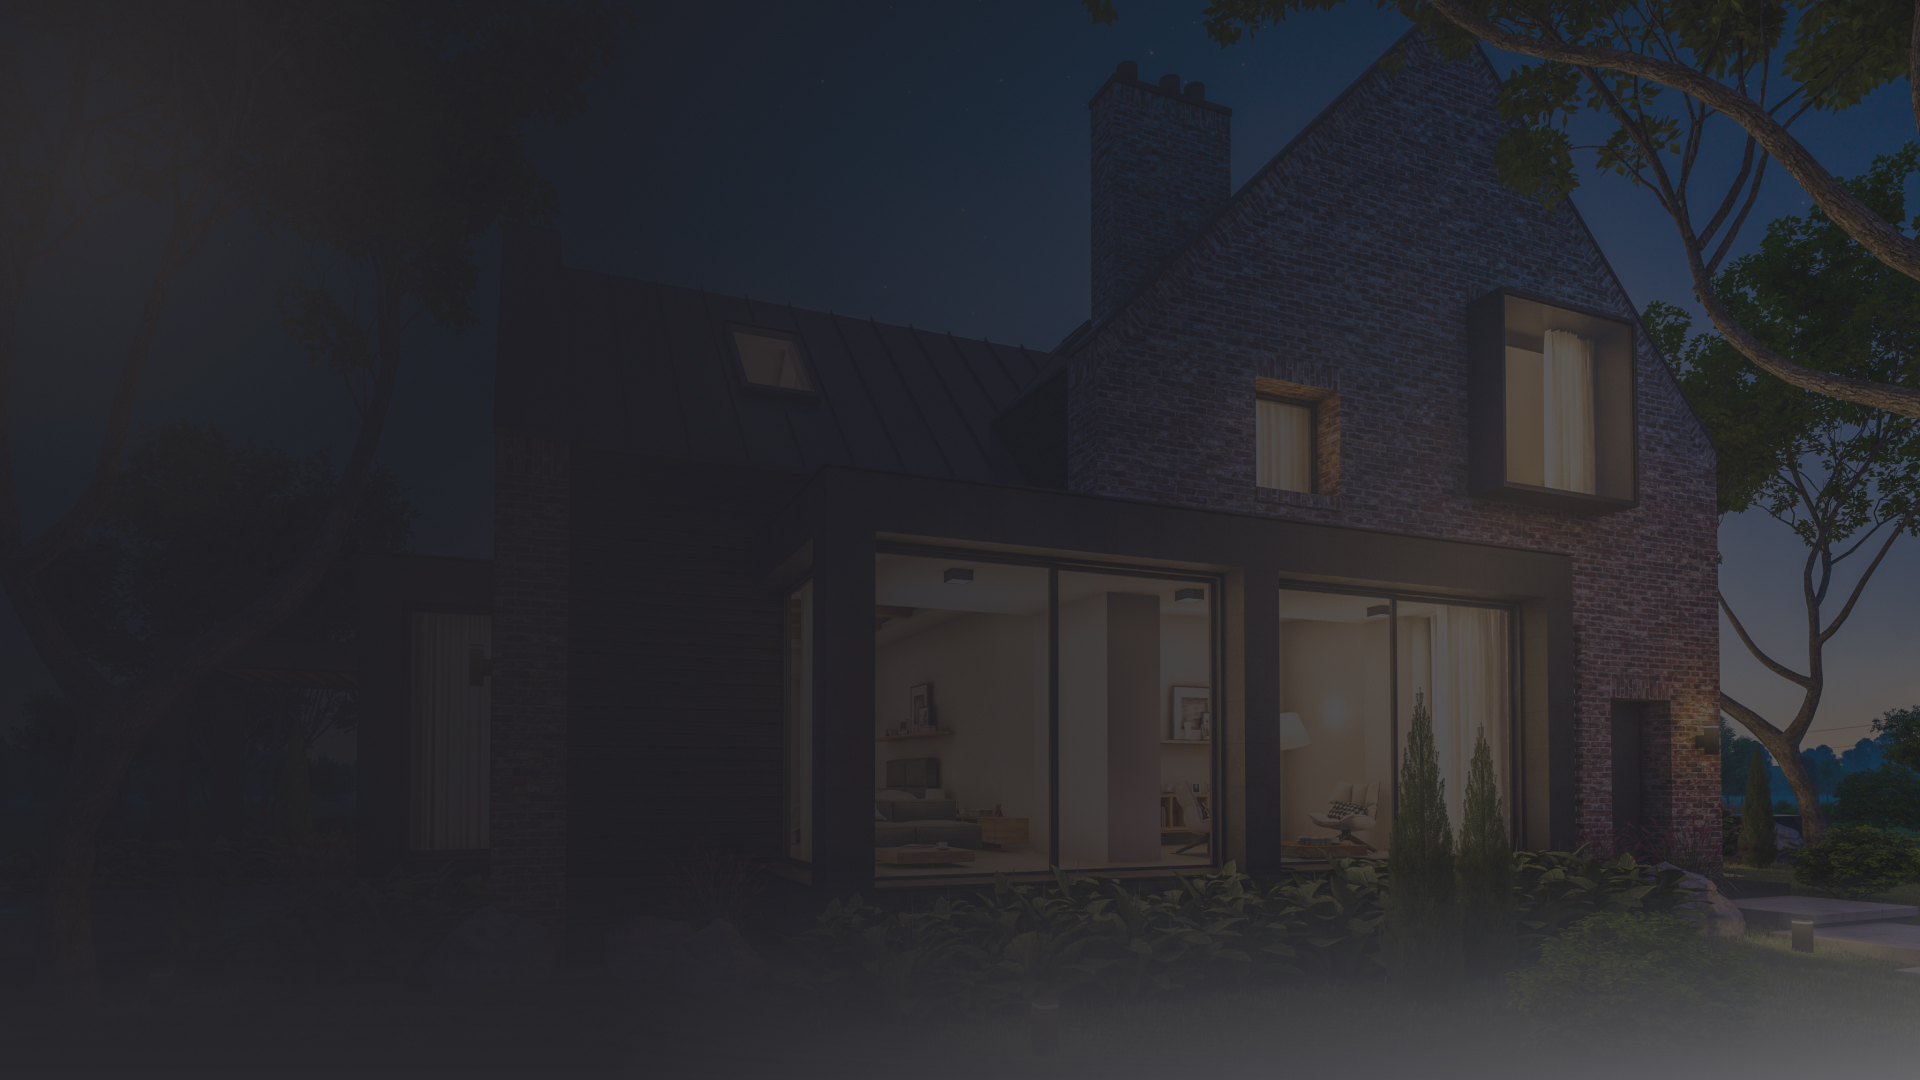
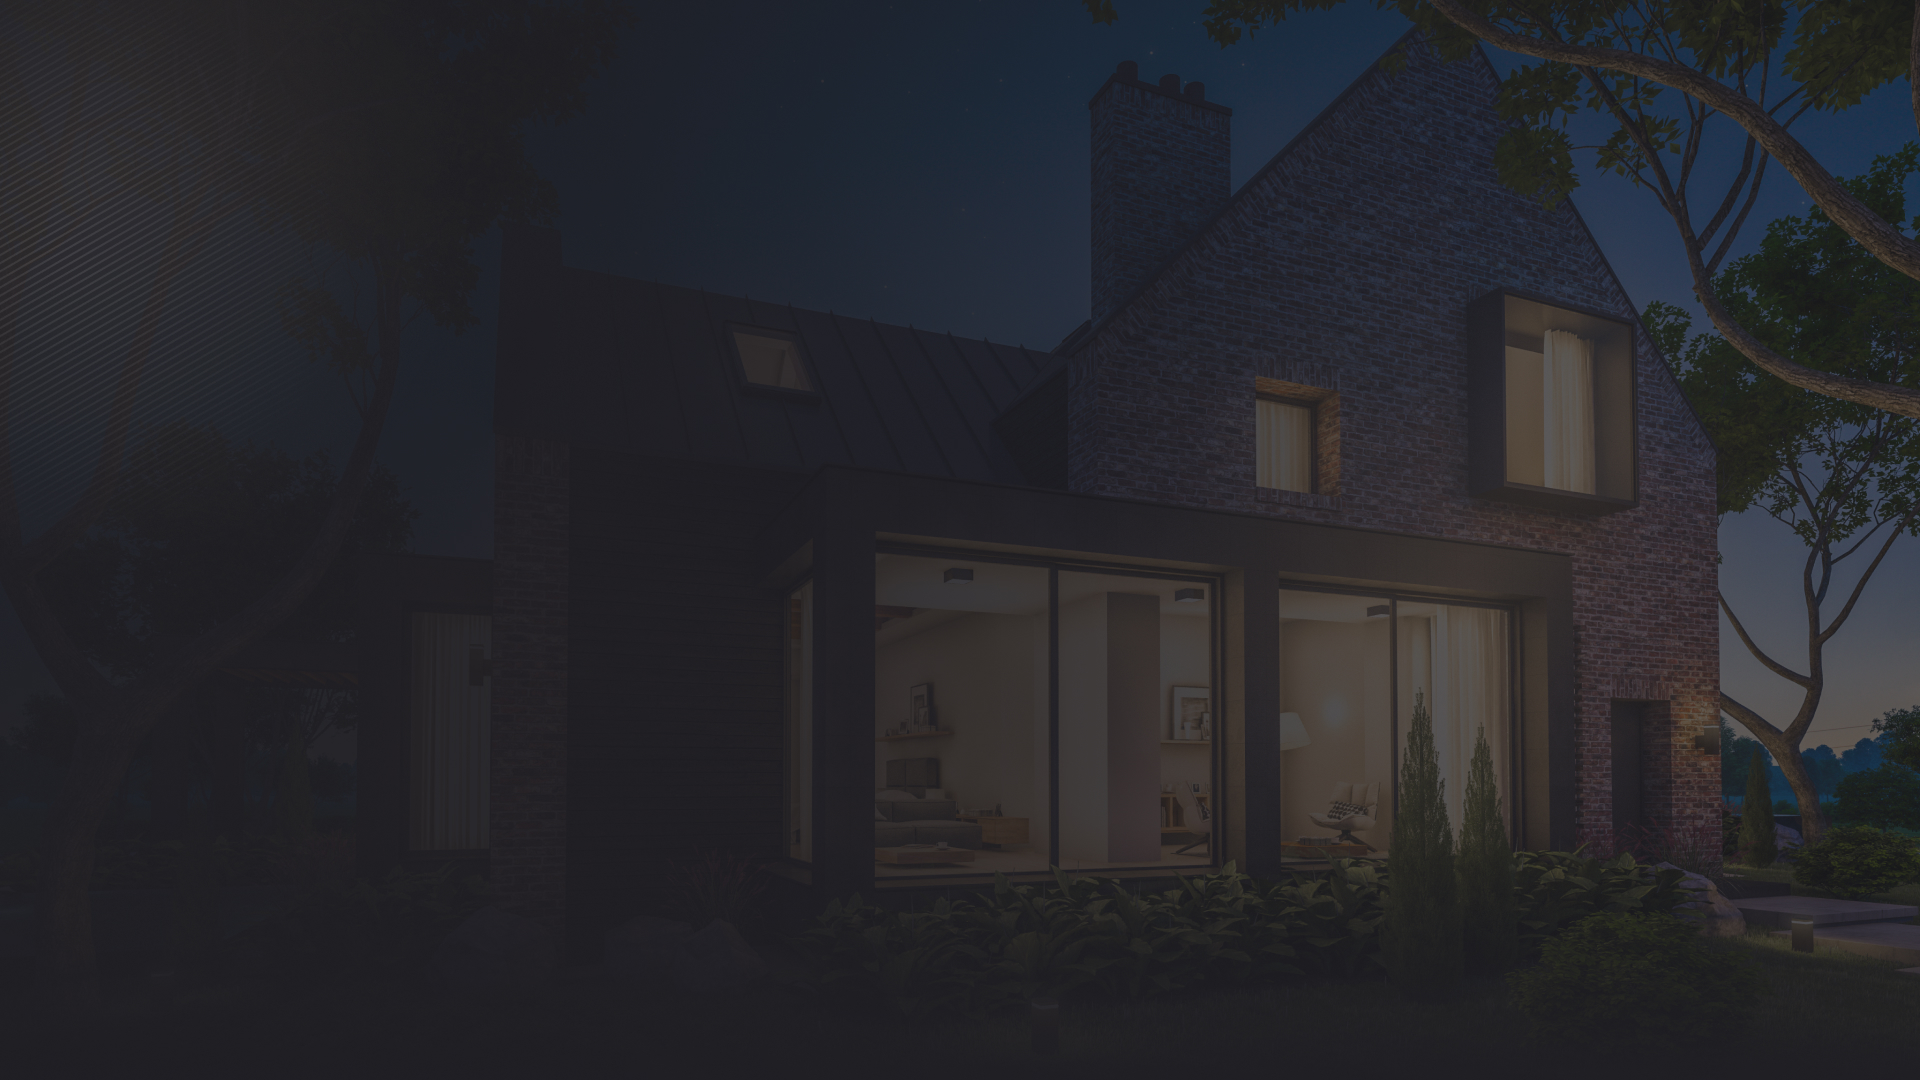
Обновление стилей для адаптации верхнего блока

Changed region(s): [[0.5, 0.8556, 1.0, 1.0]]

diff --git a/src/sass/general/general.sass b/src/sass/general/general.sass
@@ -23,12 +23,16 @@ body
 	+laptop-down
 		font-size: 15px
 	+ipad-down
-		font-size: 13px
+		font-size: 14px
 	+tablet-down
 		font-size: 12px
 	+phone-down
 		font-size: 12px
-
+	&.stroke-ic
+		overflow: hidden
+		&::after
+			bottom: calc(-100em/18)
+			right: -70px
 h1, h2, h3, h4, p, ul
 	margin: 0px
 	padding: 0px
@@ -96,7 +100,7 @@ a
 	border: 0
 	cursor: pointer
 
-	&:hover
+	//&:hover
 		color: inherit
 
 	&-light
@@ -247,9 +251,9 @@ a
 		color: $fontColorMain
 		width: calc(195em/14)
 		background: transparent
-		box-shadow: 0px 0px calc(30em/14) rgba(0, 0, 0, 0.15)
+		box-shadow: 0px 0px calc(30em/14) rgba(0, 0, 0, 0.35)
 		border-radius: calc(20em/14)
-		margin-right: calc(-#{$callback-btn-w} / 2)
+		margin-right: calc(#{$callback-btn-w} / (-2))
 		z-index: 1
 		opacity: 0
 		transition: all .8s ease-out
@@ -258,7 +262,7 @@ a
 		&:hover
 			.prompt
 				opacity: 1
-				background: $block-bg
+				background: $block-bg_prompt
 			.callback__btn
 				background: $accent
 				box-shadow: 0px 0px calc(17em/14) $accent
@@ -431,3 +435,29 @@ svg.svg-ic path
 	width: calc(22em/18)
 	height: calc(22em/18)
 	margin-right: calc(10em/18)
+	&:hover
+		.mouse-ic .mouse-ic-btn
+			fill: red
+
+//.mouse-ic>path
+	//transition: all .5s ease-out
+	fill: red
+
+.stroke-ic
+	position: relative
+	&::after
+		content: ""
+		display: inline-block
+		width: calc(574em/18)
+		height: calc(574em/18)
+		position: absolute
+		bottom: 0
+		right: 0
+		transform: rotate(-75deg)
+		z-index: 1
+		background:
+			color: rebeccapurple
+			image: url("../images/content/strokes.png")
+			repeat: no-repeat
+			size: contain
+			position: center

diff --git a/src/sass/content/_banner.sass b/src/sass/content/_banner.sass
@@ -11,6 +11,14 @@
     justify-content: center
     height: 100vh
 
+  &.stroke-ic
+    //overflow: hidden
+    &::after
+      display: none
+      bottom: calc(-100em/18)
+      right: -70px
+
+
 
 .banner
   display: flex
@@ -18,6 +26,9 @@
   align-items: flex-start
   justify-content: center
   flex-grow: 1
+  position: relative
+
+
   +phone-down
     justify-content: flex-start
   .progress
@@ -32,6 +43,7 @@
       align-items: center
       margin-right: calc(20em/18)
       padding: 0 calc(25em/18)
+      text-align: center
       &:last-child
         margin-right: 0
     &-count
@@ -62,6 +74,12 @@
     width: 33.85vw
     margin-bottom: 35px
     margin-bottom: 3.24vh
+    +large-down
+      width: 43.96vw
+    +laptop-down
+      width: 51.1vw
+    +ipad-down
+      width: 52.3vw
     +tablet-down
       text-align: center
       width: 100%
@@ -69,6 +87,15 @@
 
   &-main
     width: 56.97vw
+    margin-top: -10.4vh
+    @media screen and (max-width: 1808px) and (min-width: 1400px) and (max-height: 800px)
+      width: 86.4vw
+    +large-down
+      width: 74vw
+    +large-down
+      width: 86vw
+    +ipad-down
+      width: 88vw
     +tablet-down
       width: 100%
       display: flex
@@ -81,8 +108,10 @@
     display: flex
     align-items: center
     align-self: flex-end
-    bottom: -80px
-    bottom: -8.4%
+    //bottom: -80px
+    //bottom: -8.4%
+    position: absolute
+    bottom: 10.4vh
     +tablet-down
       display: none
 

diff --git a/src/sass/general/callback_anim.sass b/src/sass/general/callback_anim.sass
@@ -32,7 +32,7 @@ body.cbk-body-mobile div.map-canvas
   text-decoration: none
   top: auto
   white-space: nowrap
-  z-index: 9999 !important
+  z-index: 3 !important
 
   &:hover
     background-color: #f44336
@@ -47,7 +47,7 @@ body.cbk-body-mobile div.map-canvas
     text-decoration: none
     top: auto
     white-space: nowrap
-    z-index: 9999 !important
+    z-index: 3 !important
 
     span
       color: #fff !important
@@ -87,11 +87,11 @@ body.cbk-body-mobile div.map-canvas
   display: block
   outline: none !important
   overflow: hidden
-  z-index: 9999 !important
+  z-index: 3 !important
   transition: none
   -webkit-transition: none
 
-  &:hover
+  //&:hover
     background-color: transparent !important
     bottom: 5%
     border-radius: 60px !important
@@ -109,7 +109,7 @@ body.cbk-body-mobile div.map-canvas
     text-decoration: none
     top: auto
     width: 120px !important
-    z-index: 9999 !important
+    z-index: 3 !important
     transition: none
     -webkit-transition: none
 
@@ -162,13 +162,13 @@ body.cbk-body-mobile div.map-canvas
     left: 0 !important
     position: absolute !important
     top: 0 !important
-    z-index: 9997 !important
+    z-index: 2 !important
 
   .cbk-phone-phone
     left: 0 !important
     position: absolute !important
     top: 0 !important
-    z-index: 9997 !important
+    z-index: 2 !important
     height: 60px !important
     margin: 24px
     width: 60px !important

diff --git a/src/sass/content/_header.sass b/src/sass/content/_header.sass
@@ -21,14 +21,17 @@
   display: flex
   justify-content: space-between
   align-items: center
+  padding: calc(30em/18) 0
+  +large-down
+    padding-top: calc(50em/18)
   +tablet-down
     flex-direction: column
     align-items: stretch
-  +phone-down
+
     padding: calc(26em/12) 0 calc(40em/12)
     //padding: 2.6vh 0 4vh
   .nav
-    +tablet-down
+    +large-down
       display: none
     ul
       display: flex
@@ -36,12 +39,10 @@
       align-items: center
       list-style: none
 
-      li //&__item
-        padding: 50px 20px 50px 0
-        padding: 4.63vh 20px 4.63vh 0
     a
       color: $fontColorMain
       display: inline-block
+      padding: calc(20em/18) calc(20em/18) calc(20em/18) 0
 
 
 
@@ -54,6 +55,12 @@
   &-left
     width: 21.87vw
     display: inline-flex
+    +large-down
+      width: 33vw
+    +laptop-down
+      width: 38.6vw
+    +ipad-down
+      width: 46.7vw
     +tablet-down
       width: unset
       margin-bottom: calc(50em/12)
@@ -63,6 +70,8 @@
     display: inline-flex
     justify-content: flex-start
     align-items: center
+    +large-down
+      width: unset
     +tablet-down
       align-self: center
       width: unset

diff --git a/src/sass/mixins/mixins.sass b/src/sass/mixins/mixins.sass
@@ -16,6 +16,7 @@
 		@content
 
 
+$large-width: 1400px
 $laptop-width: 1200px
 $ipad-width: 992px
 $tablet-width: 768px
@@ -38,7 +39,9 @@ $phone-width-min: 320px
 	@media screen and (min-width: $phone-width-min)
 		@content
 
-
+=large-down
+	@media screen and (max-width: $large-width)
+		@content
 =laptop-down
 	@media screen and (max-width: $laptop-width)
 		@content

diff --git a/src/sass/general/variables.sass b/src/sass/general/variables.sass
@@ -14,6 +14,7 @@ $dark: #1A1821
 $bg-dark: #201F24
 $bg-white: #F2EFEB
 $block-bg: #2B2A31
+$block-bg_prompt: rgba(43, 42, 49, .15)
 $btn-col: #1E1D23
 $btn-hover-col: #E1C29D
 
